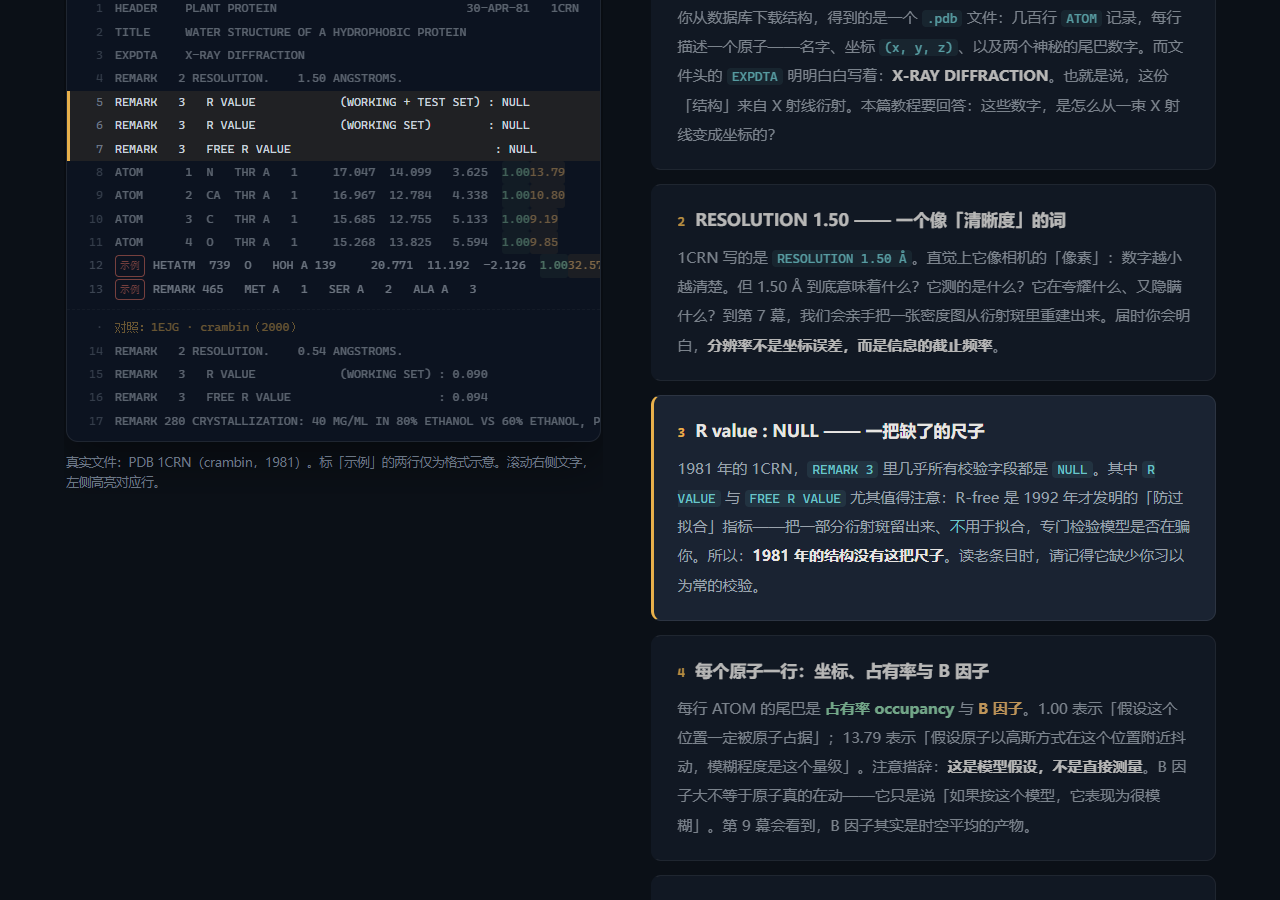
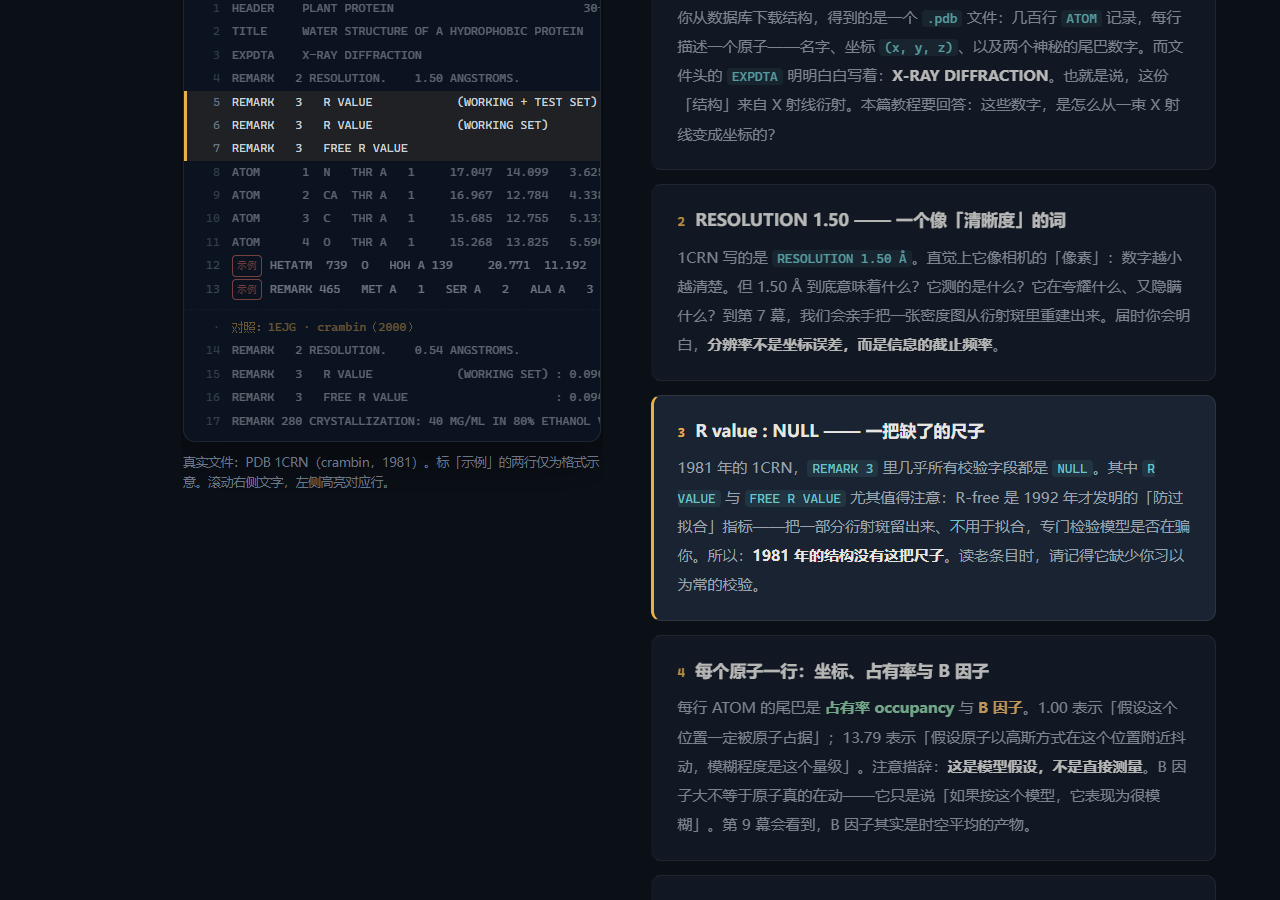
feat: 改善浏览体验
- 首屏新增「怎么读」三步引导（滚动/交互/键盘）
- 每幕左侧图形上方新增步骤圆点指示器（当前第几步/共几步）
- 每幕末尾新增「上一幕/下一幕」幕间导航
- 键盘 ←/→ 步骤间翻页（对齐活跃带，修正跳步缺陷）
- Hero 压缩，内容更快可见；README 新增读者零配置指南

diff --git a/src/main.ts b/src/main.ts
@@ -69,6 +69,14 @@ function buildHero(): HTMLElement {
       <a class="btn btn-primary" href="#act-0">开始阅读 ↓</a>
       <span class="hero-note">第 0–1 幕已完成 · 共 11 幕，持续更新</span>
     </div>
+    <div class="how-to">
+      <h3 class="how-to-title">怎么读这本教程</h3>
+      <ol class="how-to-list">
+        <li><span class="how-to-num">1</span>从顶部往下滚动，右侧文字是「旁白」，左侧图形会跟着你的阅读自动前进一步</li>
+        <li><span class="how-to-num">2</span>遇到 <strong>滑块</strong> 就拖一拖、遇到 <strong>按钮</strong> 就点一点——动手才算看懂</li>
+        <li><span class="how-to-num">3</span>按键盘 <kbd>←</kbd> <kbd>→</kbd> 可以在步骤间前后跳转，随时回到任何一幕</li>
+      </ol>
+    </div>
     <div class="principles">
       <div class="principle-card">
         <h4>概念守恒律</h4>
@@ -184,6 +192,92 @@ function initNavSpy(): void {
   });
 }
 
+/**
+ * 统一增强每个章节的浏览体验（无需改动各章节模块）：
+ *  1. 幕内步骤指示器：在左侧图形上方显示一排圆点，标记「当前第几步 / 共几步」；
+ *  2. 幕间导航：章节末尾插入「上一幕 / 下一幕」按钮，迷路时一键回到其它幕。
+ */
+function enhanceChapters(): void {
+  const built = CHAPTERS.filter((c) => c.built);
+
+  built.forEach((meta, idx) => {
+    const section = document.getElementById(meta.id);
+    if (!section) return;
+
+    // —— 幕内步骤圆点 ——
+    const media = section.querySelector<HTMLElement>('.sticky-media');
+    const steps = Array.from(section.querySelectorAll<HTMLElement>('.step'));
+    if (media && steps.length > 0) {
+      const tracker = document.createElement('div');
+      tracker.className = 'step-tracker';
+      tracker.title = '本幕进度：第 1 / N 步';
+      tracker.innerHTML = steps
+        .map((_, i) => `<span class="tracker-dot" data-i="${i}" title="第 ${i + 1} 步"></span>`)
+        .join('');
+      media.prepend(tracker);
+
+      const sync = (): void => {
+        const cur = section.querySelector<HTMLElement>('.step.current');
+        const i = cur ? steps.indexOf(cur) : 0;
+        tracker.querySelectorAll<HTMLElement>('.tracker-dot').forEach((d, di) => {
+          d.classList.toggle('active', di === i);
+        });
+        tracker.title = `本幕进度：第 ${i + 1} / ${steps.length} 步`;
+      };
+      sync();
+      const mo = new MutationObserver(sync);
+      mo.observe(section.querySelector('.steps')!, {
+        attributes: true,
+        subtree: true,
+        attributeFilter: ['class'],
+      });
+    }
+
+    // —— 幕间导航 ——
+    const prev = idx > 0 ? built[idx - 1] : null;
+    const next = idx < built.length - 1 ? built[idx + 1] : null;
+    const nav = document.createElement('nav');
+    nav.className = 'chapter-nav';
+    nav.innerHTML = `
+      <div>
+        ${
+          prev
+            ? `<a class="btn btn-ghost" href="#${prev.id}">← ${prev.num} ${prev.title}</a>`
+            : '<span class="btn btn-ghost" aria-disabled="true">← 已是第一幕</span>'
+        }
+      </div>
+      <div>
+        ${
+          next
+            ? `<a class="btn btn-primary" href="#${next.id}">${next.num} ${next.title} →</a>`
+            : '<span class="btn btn-ghost" aria-disabled="true">下一幕 · 建设中</span>'
+        }
+      </div>
+    `;
+    section.appendChild(nav);
+  });
+}
+
+/** 键盘 ← / → 在步骤之间跳转（左右方向键不会干扰页面默认滚动） */
+function initKeyboardNav(): void {
+  window.addEventListener('keydown', (e) => {
+    if (e.key !== 'ArrowRight' && e.key !== 'ArrowLeft') return;
+    const tag = (document.activeElement?.tagName ?? '').toLowerCase();
+    if (['input', 'textarea', 'select', 'button', 'a'].includes(tag)) return;
+    e.preventDefault();
+    const steps = Array.from(document.querySelectorAll<HTMLElement>('.step'));
+    if (steps.length === 0) return;
+    const cur = steps.findIndex((s) => s.classList.contains('current'));
+    const base = cur >= 0 ? cur : 0;
+    const next = Math.max(0, Math.min(steps.length - 1, base + (e.key === 'ArrowRight' ? 1 : -1)));
+    // 把目标步骤对齐到「活跃带」（视口约 52% 处），而不是视口顶部——
+    // 这样滚动叙事引擎会恰好选中它，而不是被带内更靠后的步骤抢走。
+    const band = window.innerHeight * 0.52;
+    const top = steps[next].getBoundingClientRect().top + window.scrollY - band;
+    window.scrollTo({ top: Math.max(0, top), behavior: 'smooth' });
+  });
+}
+
 const app = document.getElementById('app')!;
 app.append(buildNav(), buildHero());
 mountAct00(app);
@@ -191,3 +285,5 @@ mountAct01(app);
 app.append(buildOutro(), buildFooter());
 initProgress();
 initNavSpy();
+enhanceChapters();
+initKeyboardNav();

diff --git a/src/styles/index.css b/src/styles/index.css
@@ -124,7 +124,7 @@ body {
 .hero {
   max-width: 1000px;
   margin: 0 auto;
-  padding: 110px 24px 40px;
+  padding: 72px 24px 36px;
   text-align: center;
 }
 
@@ -164,6 +164,75 @@ body {
 .hero-note {
   color: var(--ink-faint);
   font-size: 13px;
+}
+
+/* ---------------- 怎么读（首屏引导） ---------------- */
+
+.how-to {
+  max-width: 840px;
+  margin: 0 auto 44px;
+  background: var(--bg-panel);
+  border: 1px solid var(--line);
+  border-radius: 14px;
+  padding: 22px 28px;
+  text-align: left;
+}
+
+.how-to-title {
+  margin: 0 0 14px;
+  color: var(--amber);
+  font-size: 13px;
+  letter-spacing: 3px;
+  font-family: var(--mono);
+}
+
+.how-to-list {
+  list-style: none;
+  margin: 0;
+  padding: 0;
+  display: flex;
+  flex-direction: column;
+  gap: 12px;
+}
+
+.how-to-list li {
+  display: flex;
+  gap: 12px;
+  align-items: flex-start;
+  color: var(--ink-muted);
+  font-size: 14.5px;
+  line-height: 1.75;
+}
+
+.how-to-num {
+  flex: none;
+  width: 24px;
+  height: 24px;
+  border-radius: 50%;
+  background: rgba(108, 196, 201, 0.15);
+  border: 1px solid var(--cyan);
+  color: var(--cyan);
+  display: inline-flex;
+  align-items: center;
+  justify-content: center;
+  font-family: var(--mono);
+  font-size: 12px;
+  margin-top: 2px;
+}
+
+.how-to strong {
+  color: var(--ink);
+}
+
+.how-to kbd {
+  font-family: var(--mono);
+  font-size: 12px;
+  background: rgba(255, 255, 255, 0.08);
+  border: 1px solid var(--line);
+  border-bottom-width: 2px;
+  border-radius: 4px;
+  padding: 1px 7px;
+  color: var(--ink);
 }
 
 .principles {
@@ -687,6 +756,47 @@ input[type='range'] {
   color: var(--ink-faint);
   font-family: var(--serif);
   font-size: 13px;
+}
+
+/* ---------------- 幕内步骤指示器 ---------------- */
+
+.step-tracker {
+  display: flex;
+  gap: 9px;
+  justify-content: center;
+  padding: 6px 0 12px;
+}
+
+.tracker-dot {
+  width: 9px;
+  height: 9px;
+  border-radius: 50%;
+  background: rgba(255, 255, 255, 0.16);
+  transition: background 0.3s, transform 0.3s, box-shadow 0.3s;
+}
+
+.tracker-dot.active {
+  background: var(--amber);
+  transform: scale(1.4);
+  box-shadow: 0 0 10px rgba(232, 176, 75, 0.65);
+}
+
+/* ---------------- 幕间导航 ---------------- */
+
+.chapter-nav {
+  display: flex;
+  justify-content: space-between;
+  align-items: center;
+  gap: 16px;
+  max-width: 1200px;
+  margin: 56px auto 0;
+  padding: 24px 0 8px;
+  border-top: 1px solid var(--line);
+}
+
+.chapter-nav .btn[aria-disabled='true'] {
+  opacity: 0.4;
+  pointer-events: none;
 }
 
 /* ---------------- 响应式 ---------------- */

diff --git a/README.md b/README.md
@@ -7,6 +7,21 @@
 
 ![Hero](docs/screenshots/hero.png)
 
+## 读者使用指南（零配置）
+
+**直接打开下面的网址就能读，不需要安装任何东西：**
+
+> **https://justplayinger.github.io/XRD_Guide/**
+
+阅读方式：
+
+1. 从上往下滚动 —— 右侧是文字「旁白」，左侧图形会跟着阅读自动前进一步；
+2. 遇到 **滑块** 就拖一拖、遇到 **按钮** 就点一点 —— 动手才算看懂；
+3. 按键盘 `←` `→` 可在步骤间前后跳转；顶部导航可随时跳回任何一幕；
+4. 每一幕末尾有「上一幕 / 下一幕」按钮，不会迷路。
+
+（以下「本地运行」仅对想要修改/开发本项目的人有用。）
+
 ## 这个项目在做什么
 
 你在数据库中下载到的每个 `.pdb` 文件，都声称「由 X 射线衍射测定」。
@@ -37,7 +52,10 @@
 ![Act 0](docs/screenshots/act0.png)
 ![Act 1](docs/screenshots/act1.png)
 
-## 本地运行
+## 本地运行（仅开发者）
+
+> 只是想**读**教程？直接访问 [https://justplayinger.github.io/XRD_Guide/](https://justplayinger.github.io/XRD_Guide/) 即可，无需任何安装。
+> 以下命令只适合想要修改/扩展本项目的人，需要 Node.js ≥ 22。
 
 ```bash
 npm install
